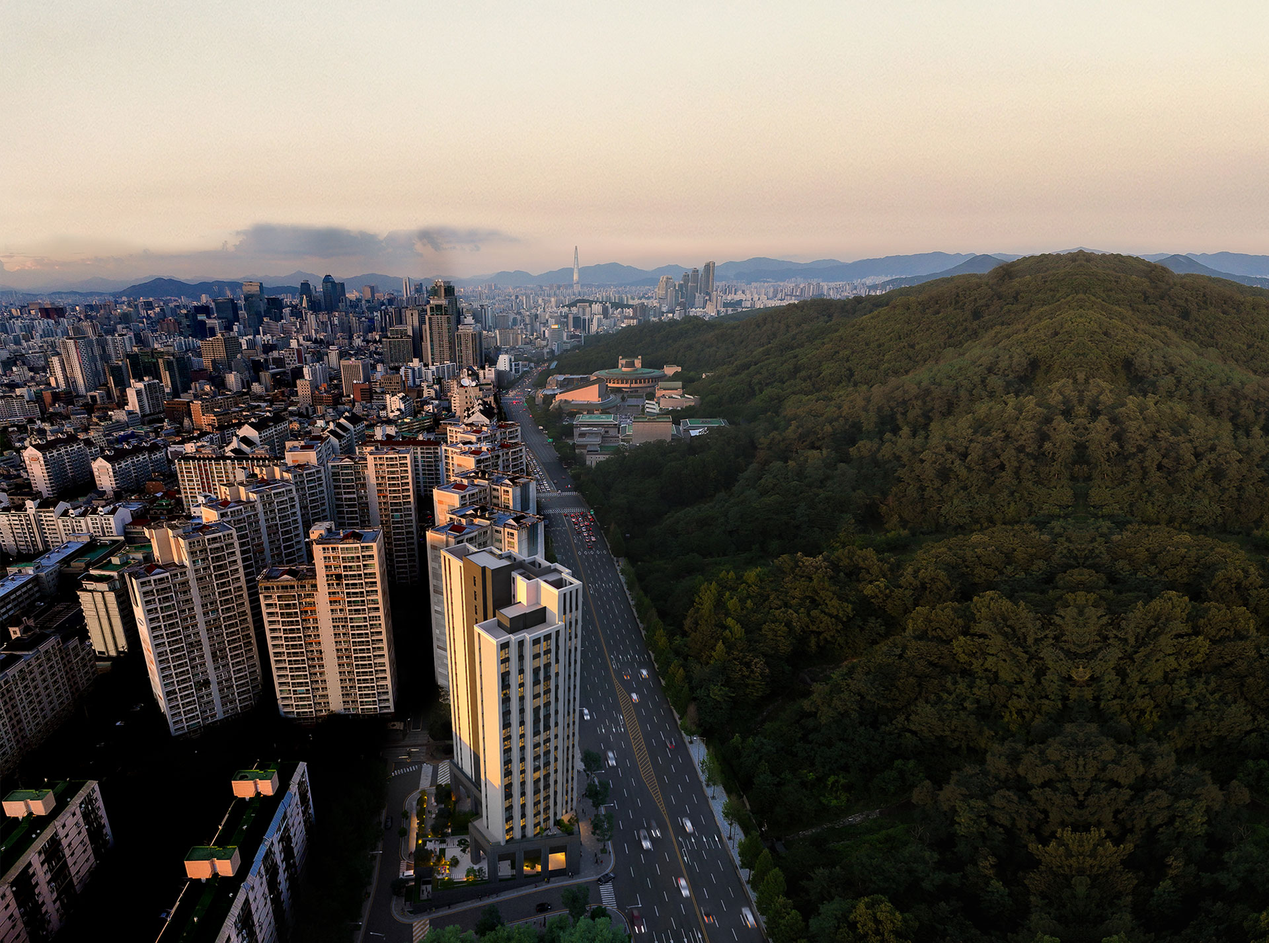
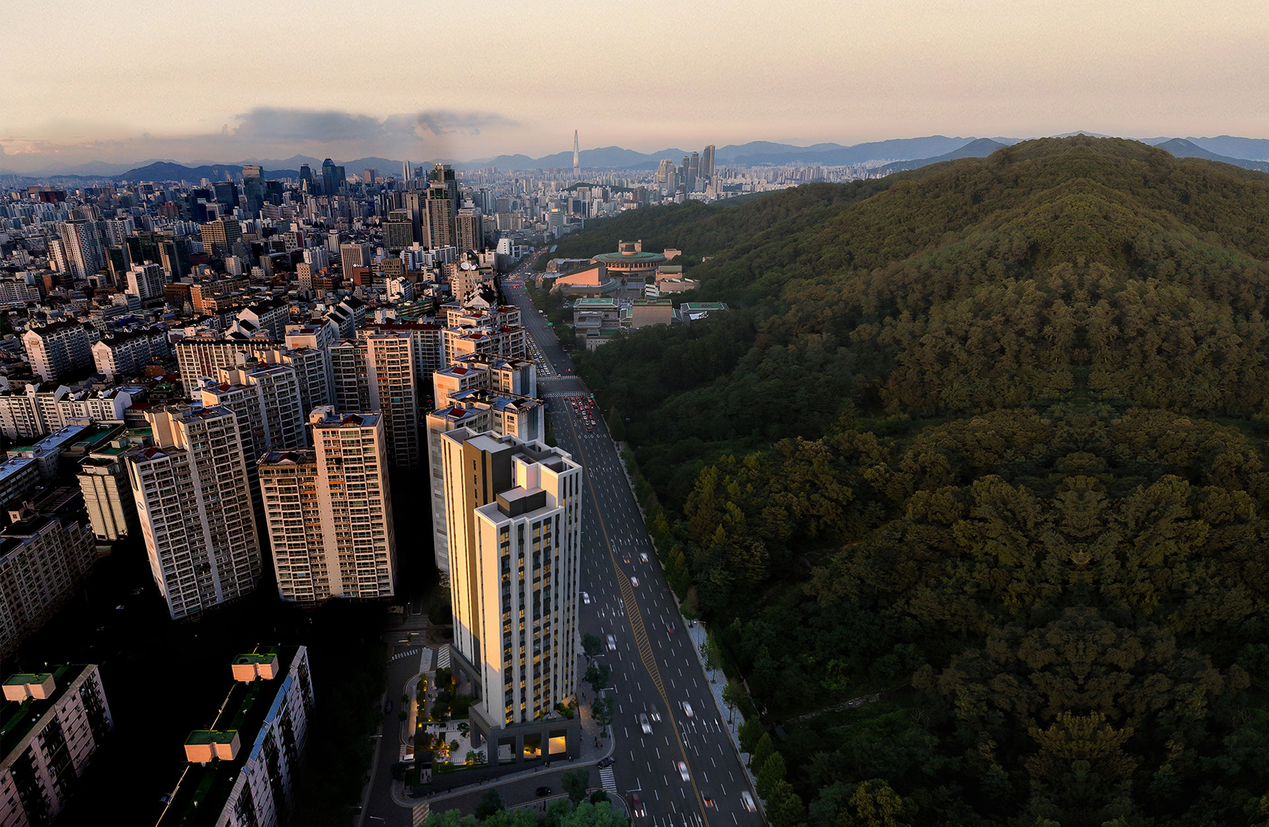
오타수정 오리발 수정 롯데타워 하늘에 걸리는 이미지 하늘사이즈 1/2로 수정

diff --git a/index.html b/index.html
@@ -283,7 +283,7 @@
                                 경희대학교 공과대학 건축학과 초빙교수<br />
                                 THE SYSTEM LAB 대표<br />
                                 고려대학교 건축공학과 학사, 하버드대학 건축학 석사<br />
-                                한울건출, 캠브리지 챈 크리거, 보스턴 KSWA 근무<br />
+                                한울건축, 캠브리지 챈 크리거, 보스턴 KSWA 근무<br />
                             </div>
                             <div class="text-container__row">
                                 수상<br />
@@ -349,7 +349,7 @@
                         <footer>
                             <div class="footer-left">
                                 © 2022 ACCOLADE. ALL RIGHTS ARE RESERVED.<br />
-                                본 사이트 내, 사용된 이미지는 소비자의 이해를 돕기 위해 제공된 것으로 실제 시공 시 다를 수 있습니다.
+                                본 사이트 내 사용된 이미지는 소비자의 이해를 돕기 위한 것으로 실제와 차이가 있을 수 있습니다.
                             </div>
                             <div class="footer-right">
                                 <!-- <div class="footer-right__row">
